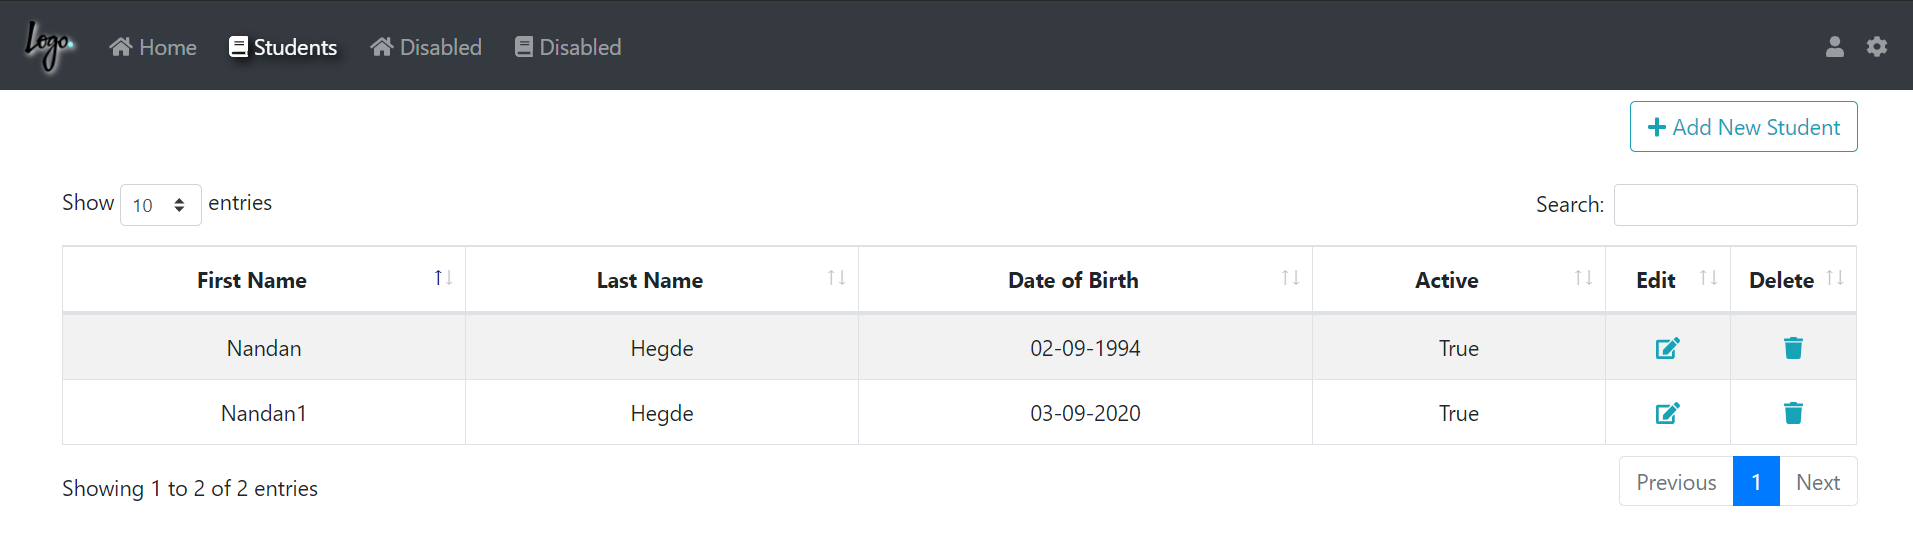
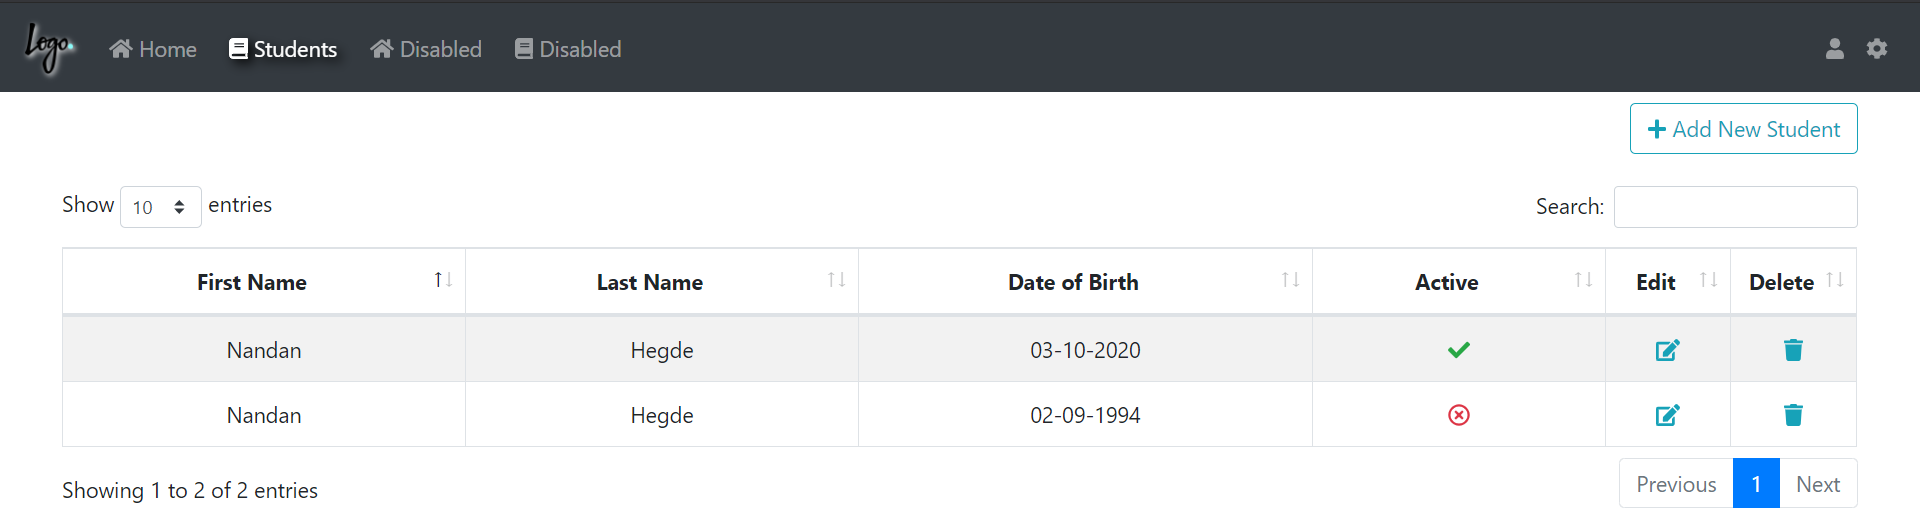
Updated

diff --git a/DemoApplication.MVC/wwwroot/css/common.css b/DemoApplication.MVC/wwwroot/css/common.css
@@ -60,3 +60,68 @@
 .footer {
     background-color: #f5f5f5;
 }
+
+
+/*Checkbox*/
+
+
+/* The switch - the box around the slider */
+.switch {
+    position: relative;
+    display: inline-block;
+    width: 60px;
+    height: 34px;
+}
+
+    /* Hide default HTML checkbox */
+    .switch input {
+        display: none;
+    }
+
+/* The slider */
+.slider {
+    position: absolute;
+    cursor: pointer;
+    top: 0;
+    left: 0;
+    right: 0;
+    bottom: 0;
+    background-color: #ccc;
+    -webkit-transition: .4s;
+    transition: .4s;
+}
+
+    .slider:before {
+        position: absolute;
+        content: "";
+        height: 26px;
+        width: 26px;
+        left: 4px;
+        bottom: 4px;
+        background-color: white;
+        -webkit-transition: .4s;
+        transition: .4s;
+    }
+
+input.default:checked + .slider {
+    background-color: #444;
+}
+
+input:focus + .slider {
+    box-shadow: 0 0 1px #2196F3;
+}
+
+input:checked + .slider:before {
+    -webkit-transform: translateX(26px);
+    -ms-transform: translateX(26px);
+    transform: translateX(26px);
+}
+
+/* Rounded sliders */
+.slider.round {
+    border-radius: 34px;
+}
+
+    .slider.round:before {
+        border-radius: 50%;
+    }

diff --git a/README.md b/README.md
@@ -2,6 +2,18 @@
 
 ## An application developed in ASP.Net core MVC with Razor views, Bootstrap and jQuery. 
 
-### Application includes demonstration of basic CRUD functionalities using a Student class. 
-### A Home page with 2 cards. One with external api for currency conversion and another showing the number of students available.
+#### Application includes demonstration of basic CRUD functionalities using a Student class. 
+#### A Home page with 2 cards. One with external api for currency conversion and another showing the number of students available.
 
+![Home page](images/home.PNG)
+
+##### Home page is built with a proper Layout page having 2 cards.
+##### Active menu is handled based on current location of URL. 
+
+##### A basic CRUD operation is developed in Students section
+
+![Students](images/Students.PNG)
+
+![Students](images/NewStudents.PNG)
+
+![Students](images/DeleteMsg)
